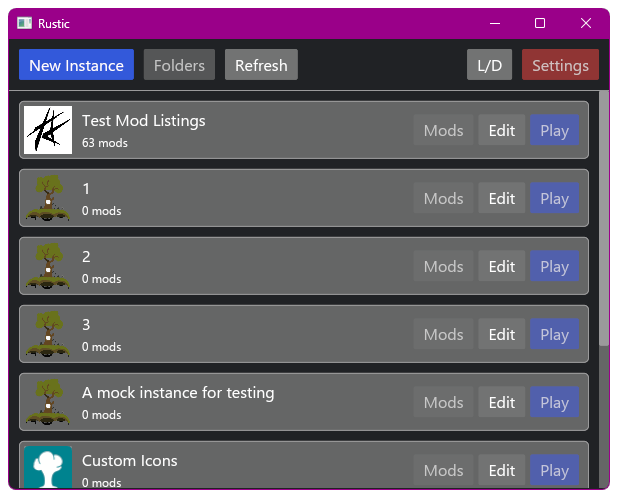
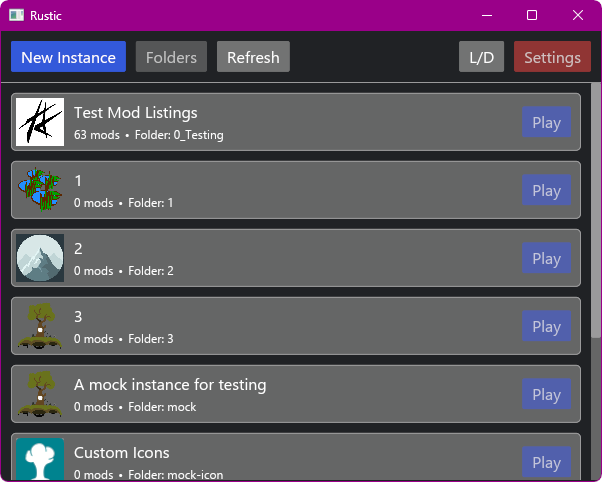
update checklist and screenshot

diff --git a/README.md b/README.md
@@ -1,4 +1,4 @@
-Rustic 
+Rustic
 ![status](https://img.shields.io/badge/Status-Mockup-red?style=for-the-badge)
 [![license](https://img.shields.io/github/license/akzyra/rustic-vs?style=for-the-badge)](LICENSE)
 ===========
@@ -10,12 +10,13 @@ Just a basic, barely functional mockup for now.
 ![screenshot mods table for instance (dark)](screenshot_mods.png)
 
 ## !! VERY WIP !!
+
 - [X] Mockup
 - [X] Instances
-  - [X] Create and rename instances
+  - [X] Create and edit instances
   - [X] Display mods
-  - [ ] Edit/Delete instances
-  - [ ] Icons and more config
+  - [X] Custom icons from icons folder
+  - [ ] Delete instances *(maybe move to trash or flag as deleted?)*
 - [ ] Start the game via `--dataPath`
 - [ ] Launcher settings
 - [ ] Mod DB
